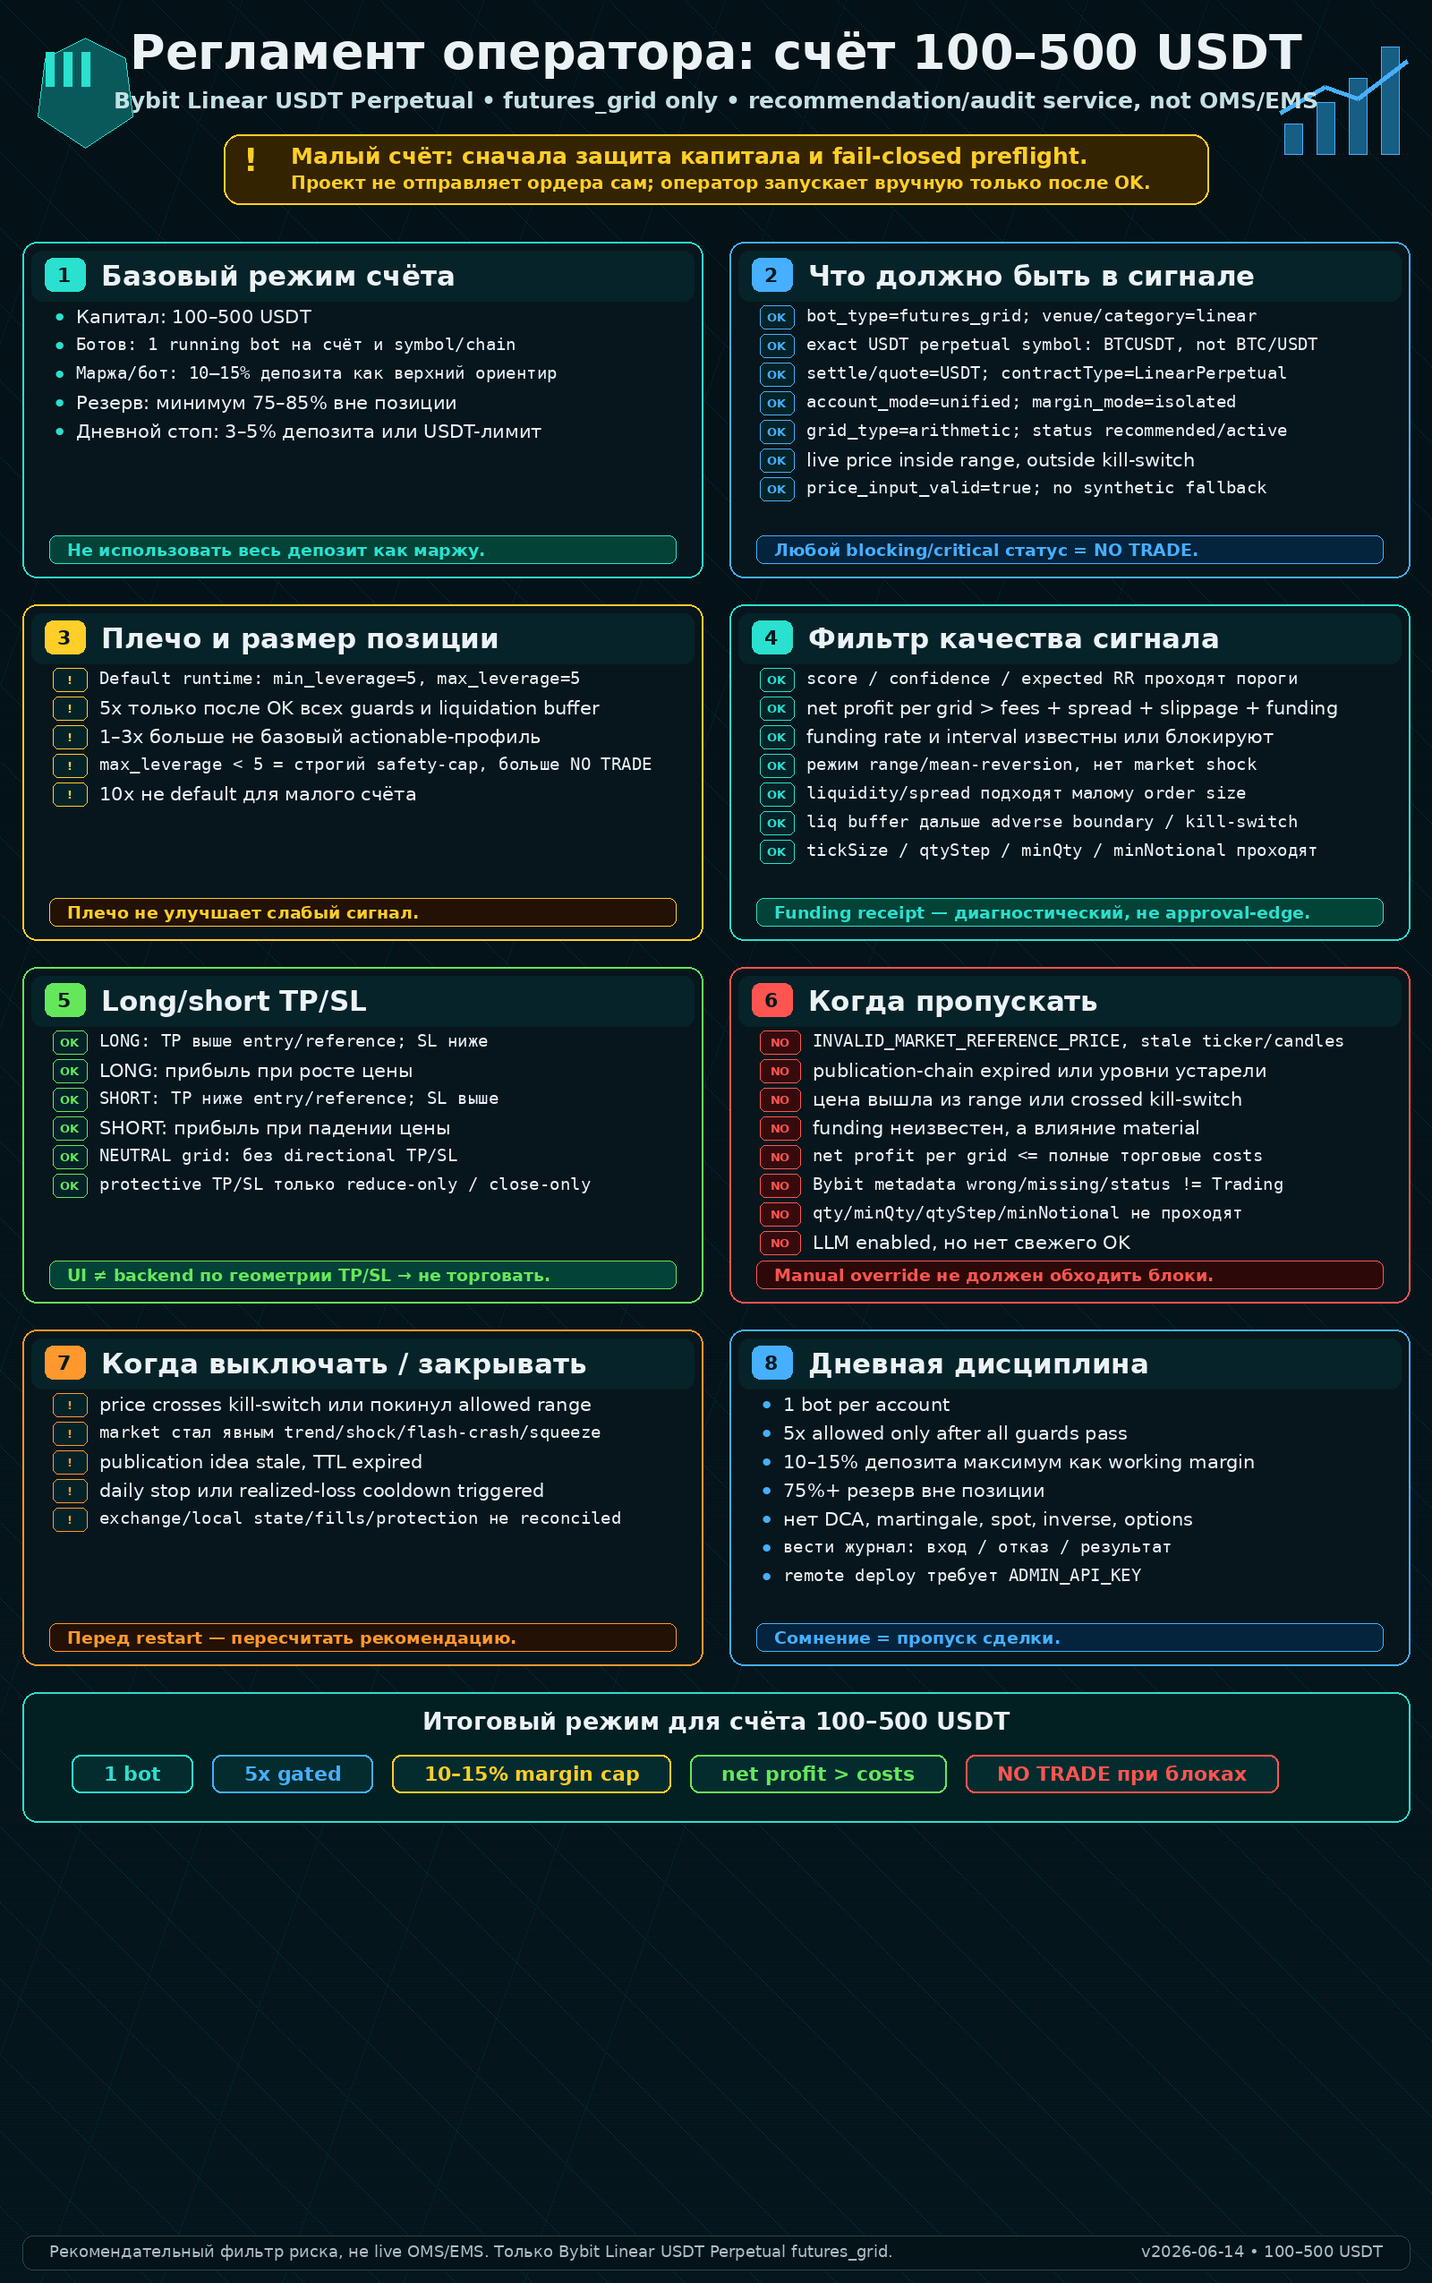
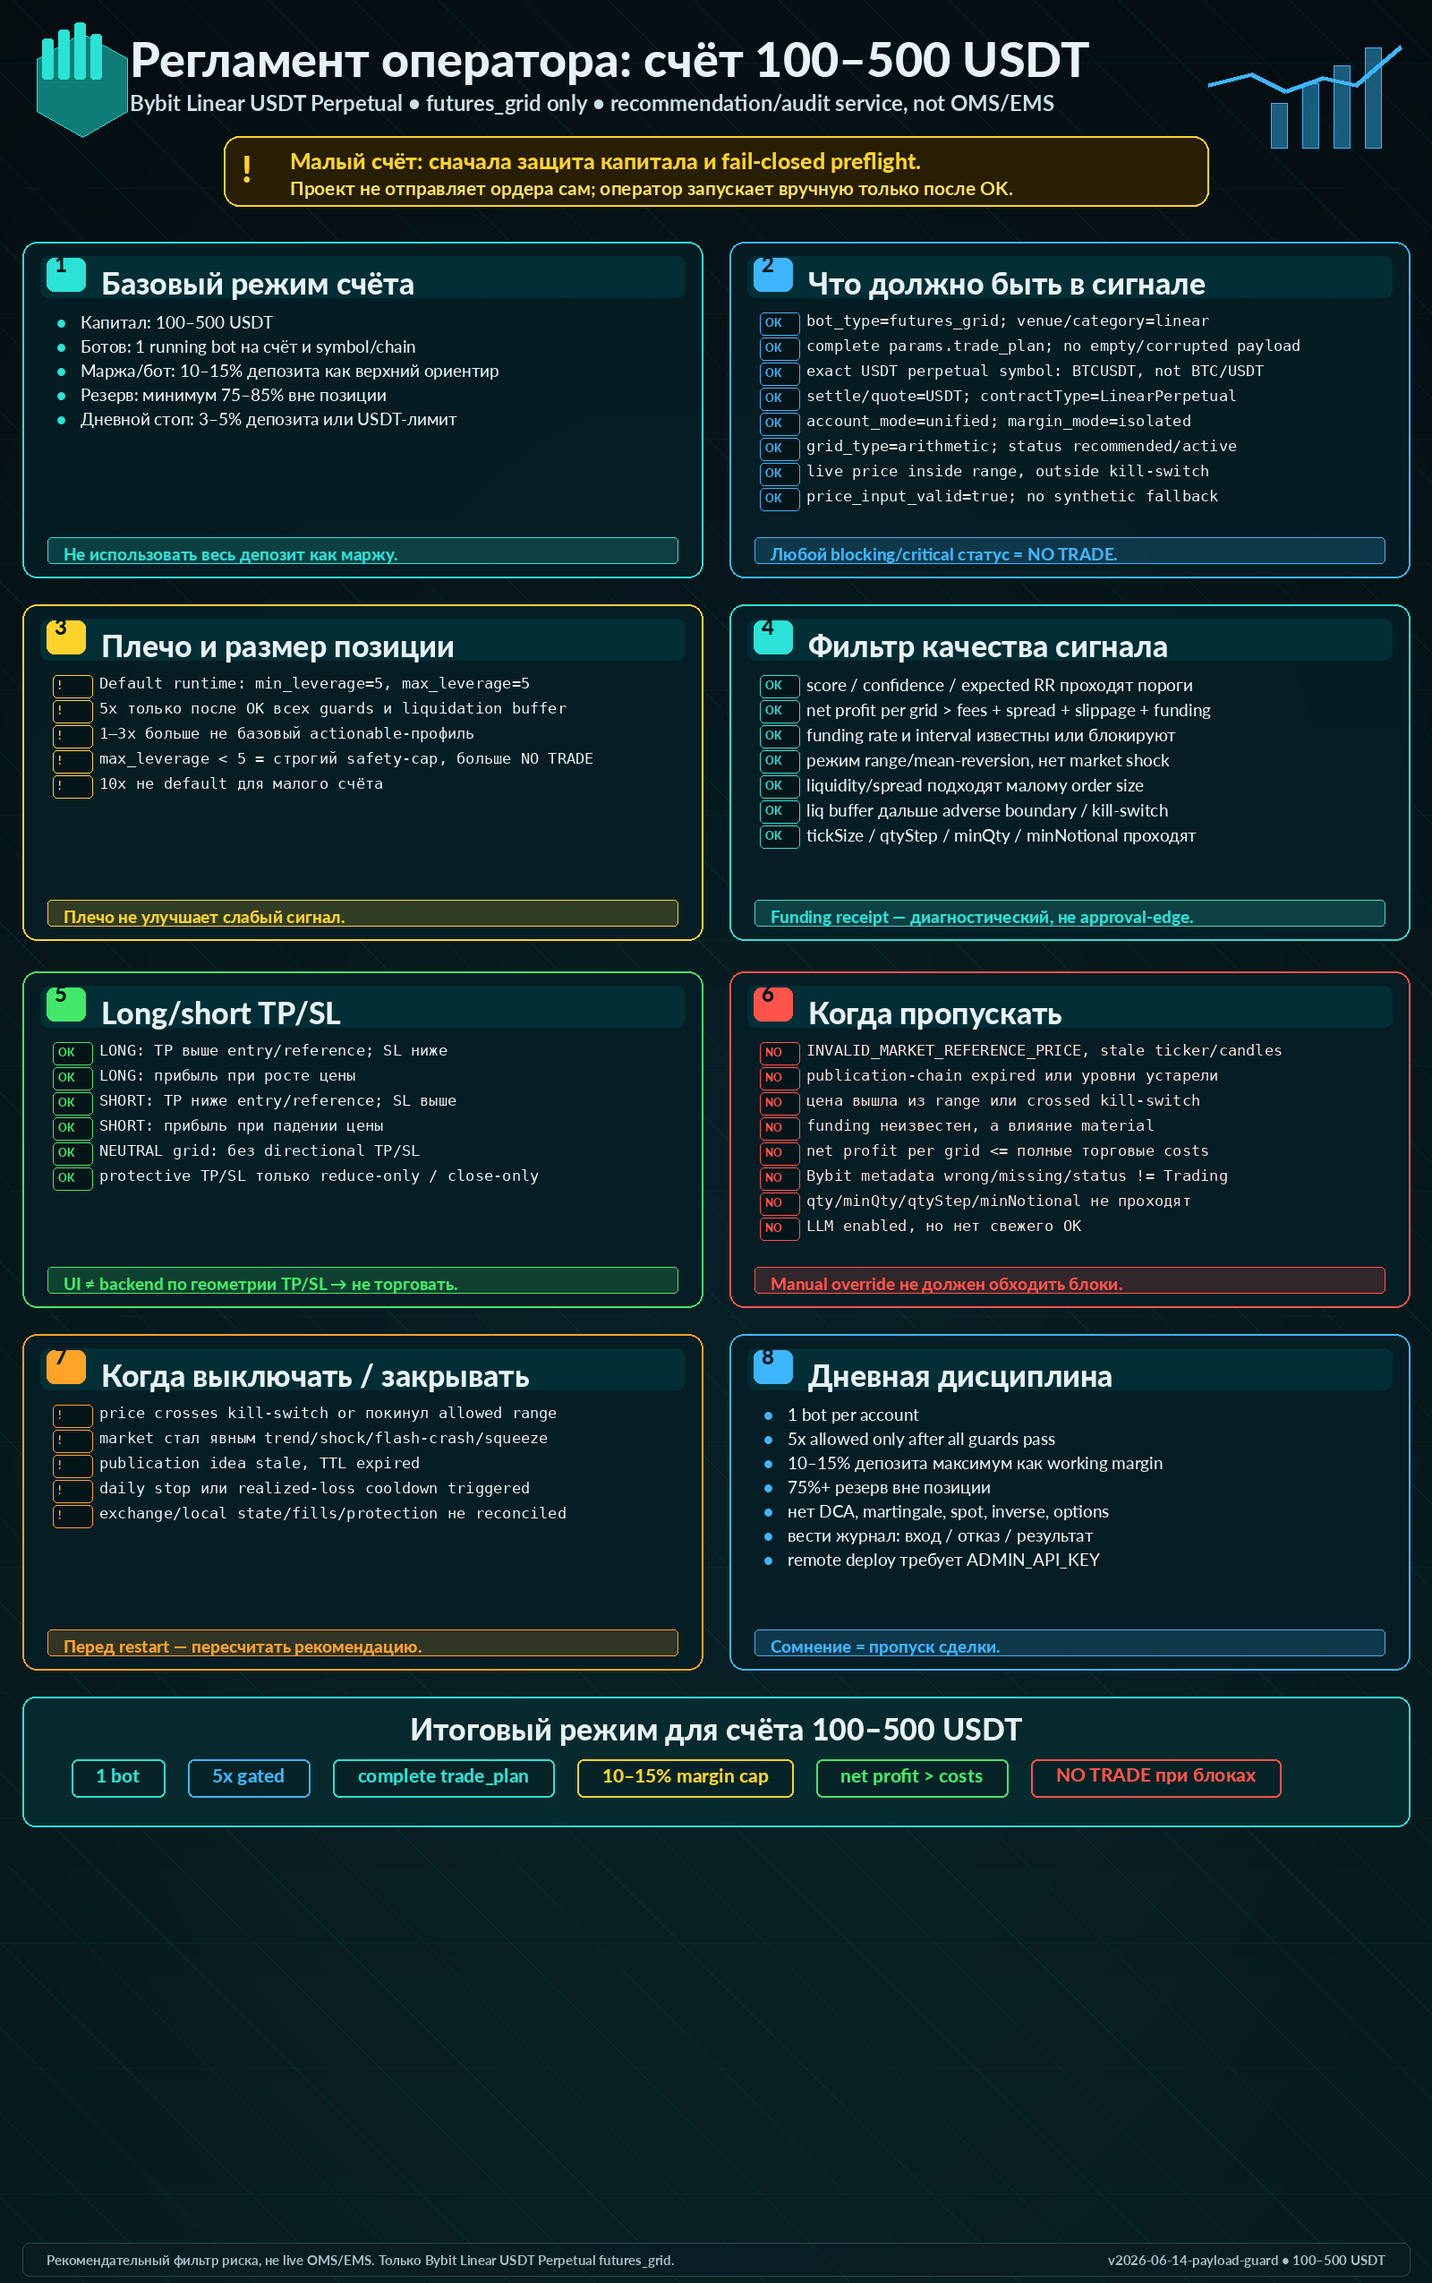
fix(operator): fail closed on empty trade-plan payloads
- block recommended/active/pending rows when params.trade_plan is missing or corrupted
- preserve original status in stored_status for auditability
- keep legacy params/reasons/blocks shape stable for API compatibility
- update malformed-json API regression to fail-closed semantics
- document complete params.trade_plan requirement
- regenerate how_to_trade.png infographic
- add audit report and regression tests

diff --git a/tests/test_iteration163_payload_guard_status.py b/tests/test_iteration163_payload_guard_status.py
@@ -1,0 +1,93 @@
+from __future__ import annotations
+
+import importlib
+import sys
+from pathlib import Path
+
+import pytest
+
+
+@pytest.fixture()
+def app_main(tmp_path: Path, monkeypatch: pytest.MonkeyPatch):
+    monkeypatch.setenv("DB_PATH", str(tmp_path / "iteration163.db"))
+    monkeypatch.setenv("RUNTIME_LOCK_DB_PATH", str(tmp_path / "iteration163_runtime_lock.db"))
+    monkeypatch.setenv("ADMIN_API_KEY", "test-admin-key")
+    monkeypatch.setenv("SYMBOLS_LINEAR", "BTCUSDT")
+    sys.modules.pop("app.main", None)
+    mod = importlib.import_module("app.main")
+    try:
+        yield mod
+    finally:
+        sys.modules.pop("app.main", None)
+
+
+def _meta() -> dict:
+    return {
+        "category": "linear",
+        "symbol": "BTCUSDT",
+        "status": "Trading",
+        "contract_type": "LinearPerpetual",
+        "quote_coin": "USDT",
+        "settle_coin": "USDT",
+        "delivery_time": 0,
+        "tick_size": "0.1",
+        "min_price": "1",
+        "max_price": "1000000",
+        "qty_step": "0.001",
+        "min_order_qty": "0.001",
+        "max_order_qty": "100",
+        "min_notional": "5",
+        "min_leverage": "1",
+        "max_leverage": "100",
+        "leverage_step": "0.01",
+    }
+
+
+def _recommended_empty_payload_rec() -> dict:
+    return {
+        "rec_id": "R-iteration163-empty-payload",
+        "ts": 1_700_000_000,
+        "venue": "linear",
+        "symbol": "BTCUSDT",
+        "bot_type": "futures_grid",
+        "direction": "short",
+        "account_mode": "unified",
+        "margin_mode": "isolated",
+        "score": 0.81,
+        "confidence": 0.77,
+        "risk_score": 0.19,
+        "status": "recommended",
+        "blocks": [],
+        "reasons": {},
+        "params": {},
+    }
+
+
+def _codes(payload: dict, key: str = "errors") -> set[str]:
+    return {str(item.get("code")) for item in payload.get(key, []) if isinstance(item, dict)}
+
+
+def test_empty_params_recommended_row_is_effectively_blocked_without_rebuilding_legacy_payload(
+    app_main,
+    monkeypatch: pytest.MonkeyPatch,
+):
+    monkeypatch.setattr(app_main, "_fetch_bybit_instrument_meta", lambda venue, symbol: _meta())
+
+    body = app_main._augment_reco_for_ui(_recommended_empty_payload_rec())
+
+    assert body["stored_status"] == "recommended"
+    assert body["status"] == "blocked"
+    assert body["effective_status"] == "blocked"
+    assert body["params"] == {}
+    assert body["reasons"] == {}
+    assert body["blocks"] == []
+    assert body["bybit_operator_guard"]["ok"] is False
+    assert "PAYLOAD_UNAVAILABLE_FOR_OPERATOR_GUARD" in _codes(body["bybit_operator_guard"])
+    assert "TRADE_PLAN_MISSING" in _codes(body["bybit_operator_guard"])
+    assert body["operator_decision_context"]["preflight_status"] == "blocked"
+
+
+def test_how_to_trade_source_mentions_complete_trade_plan_payload() -> None:
+    source = (Path(__file__).resolve().parent.parent / "docs" / "HOW_TO_TRADE_INFOGRAPHIC.md").read_text(encoding="utf-8")
+
+    assert "Complete `params.trade_plan` exists; no empty/corrupted payload." in source

diff --git a/tests/test_iteration92_json_shape_hardening.py b/tests/test_iteration92_json_shape_hardening.py
@@ -68,7 +68,7 @@ def client_conn_app(tmp_path: Path, monkeypatch: pytest.MonkeyPatch):
 
 
 
-def test_api_recommendations_and_details_fail_open_on_malformed_json_shapes(client_conn_app):
+def test_api_recommendations_and_details_fail_closed_on_malformed_json_shapes(client_conn_app):
     client, conn, _ = client_conn_app
     ts_now = int(time.time())
 
@@ -106,7 +106,14 @@ def test_api_recommendations_and_details_fail_open_on_malformed_json_shapes(clie
 
     resp = client.get('/api/v1/recommendations')
     assert resp.status_code == 200
-    item = next(x for x in resp.json()['items'] if x['rec_id'] == 'R-bad-json')
+    assert all(x['rec_id'] != 'R-bad-json' for x in resp.json()['items'])
+
+    blocked_resp = client.get('/api/v1/recommendations?show_blocked=true')
+    assert blocked_resp.status_code == 200
+    item = next(x for x in blocked_resp.json()['items'] if x['rec_id'] == 'R-bad-json')
+    assert item['status'] == 'blocked'
+    assert item['effective_status'] == 'blocked'
+    assert item['stored_status'] == 'recommended'
     assert item['params'] == {}
     assert item['reasons'] == {}
     assert item['blocks'] == []
@@ -114,6 +121,9 @@ def test_api_recommendations_and_details_fail_open_on_malformed_json_shapes(clie
     detail = client.get('/api/v1/recommendations/R-bad-json')
     assert detail.status_code == 200
     body = detail.json()
+    assert body['status'] == 'blocked'
+    assert body['effective_status'] == 'blocked'
+    assert body['stored_status'] == 'recommended'
     assert body['params'] == {}
     assert body['reasons'] == {}
     assert body['blocks'] == []

diff --git a/app/main.py b/app/main.py
@@ -1032,6 +1032,13 @@ def _augment_reco_for_ui(rec: dict[str, Any], *, conn: Any | None = None) -> dic
         guard["ok"] = False
         guard["critical"] = True
         out["bybit_operator_guard"] = guard
+        # Empty/corrupted legacy payloads intentionally keep params/reasons/blocks
+        # untouched for API-shape compatibility, but they still must not look
+        # actionable in list banners, status badges or effective-status filters.
+        if str(out.get("status") or "").strip().lower() in {"recommended", "active", "pending"}:
+            out["stored_status"] = out.get("stored_status") or out.get("status")
+            out["status"] = "blocked"
+            out["effective_status"] = "blocked"
         _merge_bybit_operator_guard_into_ui_payload(out, out["bybit_operator_guard"])
         out["operator_decision_context"] = _operator_decision_context_for_reco(out, conn=conn, guard=out.get("bybit_operator_guard"))
         _apply_llm_effective_pending_guard(out)

diff --git a/docs/AUDIT_REPORT_2026-06-14_PAYLOAD_GUARD_STATUS_PATCH.md b/docs/AUDIT_REPORT_2026-06-14_PAYLOAD_GUARD_STATUS_PATCH.md
@@ -1,0 +1,114 @@
+# Audit report: Bybit Linear USDT operator payload guard status patch
+
+Date: 2026-06-14  
+Scope: futures_grid recommendations for Bybit V5 Linear USDT Perpetual, operator UI/API payloads, long/short TP/SL guard path, risk fail-closed behavior, and `how_to_trade.png` operator infographic.
+
+## Executive summary
+
+A focused re-audit was performed around trading semantics, TP/SL display, Bybit execution metadata, risk preflight and operator-facing UI status. The existing codebase already contains a centralized directional model in `app/trading_semantics.py` and extensive regression tests for long/short TP/SL, PnL, risk/reward, grid ranges, Bybit snapping and UI consistency.
+
+One high-severity operator-facing gap was found and fixed: a legacy/corrupted recommendation row with empty `params` could still retain an actionable-looking `status=recommended` even though the Bybit operator guard correctly blocked execution because there was no complete executable `params.trade_plan`. This did not create a direct order-sending path in this project, but it could mislead list banners, status badges and effective-status filters.
+
+The patch makes empty/corrupted actionable payloads fail closed as `status=blocked` / `effective_status=blocked` while preserving the original `stored_status` for auditability. Documentation and the root infographic were synchronized to require a complete `params.trade_plan` before any operator action. The older malformed-JSON API regression was also updated from fail-open display semantics to fail-closed display semantics.
+
+## Audit coverage
+
+### Trading semantics and TP/SL
+
+Reviewed areas:
+
+- canonical long/short model in `app/trading_semantics.py`;
+- directional exit payload assembly in `app/main.py`;
+- Bybit protective order trigger-side and reduce-only/close-only semantics;
+- UI display path in `app/ui/static/app.js`;
+- existing regression tests for long/short TP/SL, short-side UI, risk/reward, PnL and guard behavior.
+
+Observed baseline:
+
+- Long TP/SL semantics are direction-aware: TP above reference/entry, SL below reference/entry.
+- Short TP/SL semantics are direction-aware: TP below reference/entry, SL above reference/entry.
+- Neutral grid payloads avoid directional TP/SL where a directional interpretation is mathematically inappropriate.
+- Protective order checks reject geometry that could increase exposure or trigger on the wrong side.
+
+No new TP/SL inversion defect was found in the currently inspected code path.
+
+### Bybit-specific and risk-management coverage
+
+Reviewed areas:
+
+- instrument metadata gates: `category`, `contractType`, `quoteCoin`, `settleCoin`, `status`, `tickSize`, `qtyStep`, `minQty`, `minNotional`;
+- snapping/validation path before exposing launchable recommendations;
+- fail-closed operator guard for missing metadata, missing trade plans, invalid price input and unsupported payloads;
+- launchability separation from visual status.
+
+The issue fixed in this patch belongs to the final operator-display layer: guard was blocked, but status could still look actionable for legacy empty-payload rows.
+
+## Findings and fixes
+
+### HIGH — Empty/corrupted trade-plan payload could remain visually `recommended`
+
+- **Files:** `app/main.py`, `tests/test_iteration163_payload_guard_status.py`
+- **Affected path:** `_augment_reco_for_ui()` branch for missing or empty `params`.
+- **Problem:** The code correctly created a critical `bybit_operator_guard` error for empty/corrupted payloads, including `PAYLOAD_UNAVAILABLE_FOR_OPERATOR_GUARD` and `TRADE_PLAN_MISSING`. However, because `_merge_bybit_operator_guard_into_ui_payload()` intentionally preserves empty legacy `params/reasons/blocks` shape, the row could retain `status=recommended` or similar actionable status.
+- **Financial/trading risk:** An operator could see a row as recommended/active in summaries or filters even though it had no complete executable `params.trade_plan`. The project still did not send orders automatically and launchability remained blocked, but the mismatch weakened the fail-closed UI contract.
+- **Fix:** Empty/corrupted payloads that arrive with `recommended`, `active` or `pending` are now converted to `status=blocked` and `effective_status=blocked`; original actionable state is copied to `stored_status` for audit traceability.
+- **Code change:** `app/main.py:1035-1041`.
+- **Test:** `test_empty_params_recommended_row_is_effectively_blocked_without_rebuilding_legacy_payload()`.
+
+### LOW — Operator source text and infographic did not explicitly state that `params.trade_plan` must exist
+
+- **Files:** `docs/HOW_TO_TRADE_INFOGRAPHIC.md`, `how_to_trade.png`, `tests/test_iteration163_payload_guard_status.py`
+- **Problem:** The operator checklist required correct bot type, venue, symbol, account mode, grid type, live price and price validity, but did not explicitly require a complete `params.trade_plan` payload.
+- **Risk:** Documentation gap: an operator or future contributor could interpret a recommendation row as actionable based only on status and metadata, without checking that an executable trade plan is present.
+- **Fix:** Added `Complete params.trade_plan exists; no empty/corrupted payload.` to the source text and regenerated the root infographic with the same guard requirement.
+- **Test:** `test_how_to_trade_source_mentions_complete_trade_plan_payload()`.
+
+## Tests added
+
+- `tests/test_iteration163_payload_guard_status.py`
+  - `test_empty_params_recommended_row_is_effectively_blocked_without_rebuilding_legacy_payload`
+  - `test_how_to_trade_source_mentions_complete_trade_plan_payload`
+- `tests/test_iteration92_json_shape_hardening.py`
+  - `test_api_recommendations_and_details_fail_closed_on_malformed_json_shapes`
+
+These tests lock the fail-closed contract for legacy/corrupted payloads and keep the operator infographic source synchronized with the new rule.
+
+## Verification performed
+
+Commands executed in this environment:
+
+```bash
+python3 -m compileall -q app tests
+node --check app/ui/static/app.js
+PYTHONPATH=. pytest -q tests/test_iteration163_payload_guard_status.py tests/test_iteration144_prompt_audit_fail_closed.py tests/test_iteration92_json_shape_hardening.py
+PYTHONPATH=. pytest -vv
+```
+
+Results:
+
+- Python compileall: passed.
+- JavaScript syntax check: passed.
+- Targeted regression tests: passed, 11 tests.
+- Full pytest suite: passed, 574 tests.
+
+Checks not completed:
+
+- `ruff check app tests`: not executed successfully because `ruff` is not installed in this environment.
+- npm/yarn tests: no `package.json` or configured Node test suite found in the project root.
+- Live/testnet Bybit API integration: not executed because no real credentials/exchange environment were provided; this audit is limited to offline static/unit/integration behavior available from the archive.
+
+## Residual risks
+
+- Exact exchange liquidation and risk-tier behavior can differ from local estimates and must be validated against Bybit account/instrument risk tiers in the target environment.
+- Real order lifecycle cases such as exchange-side partial fill, late cancel, rate limits, API downtime and reconciliation with open positions require testnet/live integration evidence.
+- Any future UI component that bypasses `_augment_reco_for_ui()` must independently preserve the same fail-closed status contract.
+- The project remains a recommendation/audit service rather than a complete OMS/EMS; manual operator discipline and exchange-side verification remain required.
+
+## Changed files
+
+- `app/main.py`
+- `docs/HOW_TO_TRADE_INFOGRAPHIC.md`
+- `how_to_trade.png`
+- `tests/test_iteration163_payload_guard_status.py`
+- `tests/test_iteration92_json_shape_hardening.py`
+- `docs/AUDIT_REPORT_2026-06-14_PAYLOAD_GUARD_STATUS_PATCH.md`

diff --git a/docs/HOW_TO_TRADE_INFOGRAPHIC.md b/docs/HOW_TO_TRADE_INFOGRAPHIC.md
@@ -28,6 +28,7 @@ Bottom note:
 All of these must be true:
 
 - `bot_type=futures_grid`; `venue/category=linear`.
+- Complete `params.trade_plan` exists; no empty/corrupted payload.
 - `symbol` exact USDT perpetual, for example `BTCUSDT`, not `BTC/USDT`.
 - `settleCoin/quoteCoin=USDT`; `contractType=LinearPerpetual`.
 - `account_mode=unified`; `margin_mode=isolated`.
